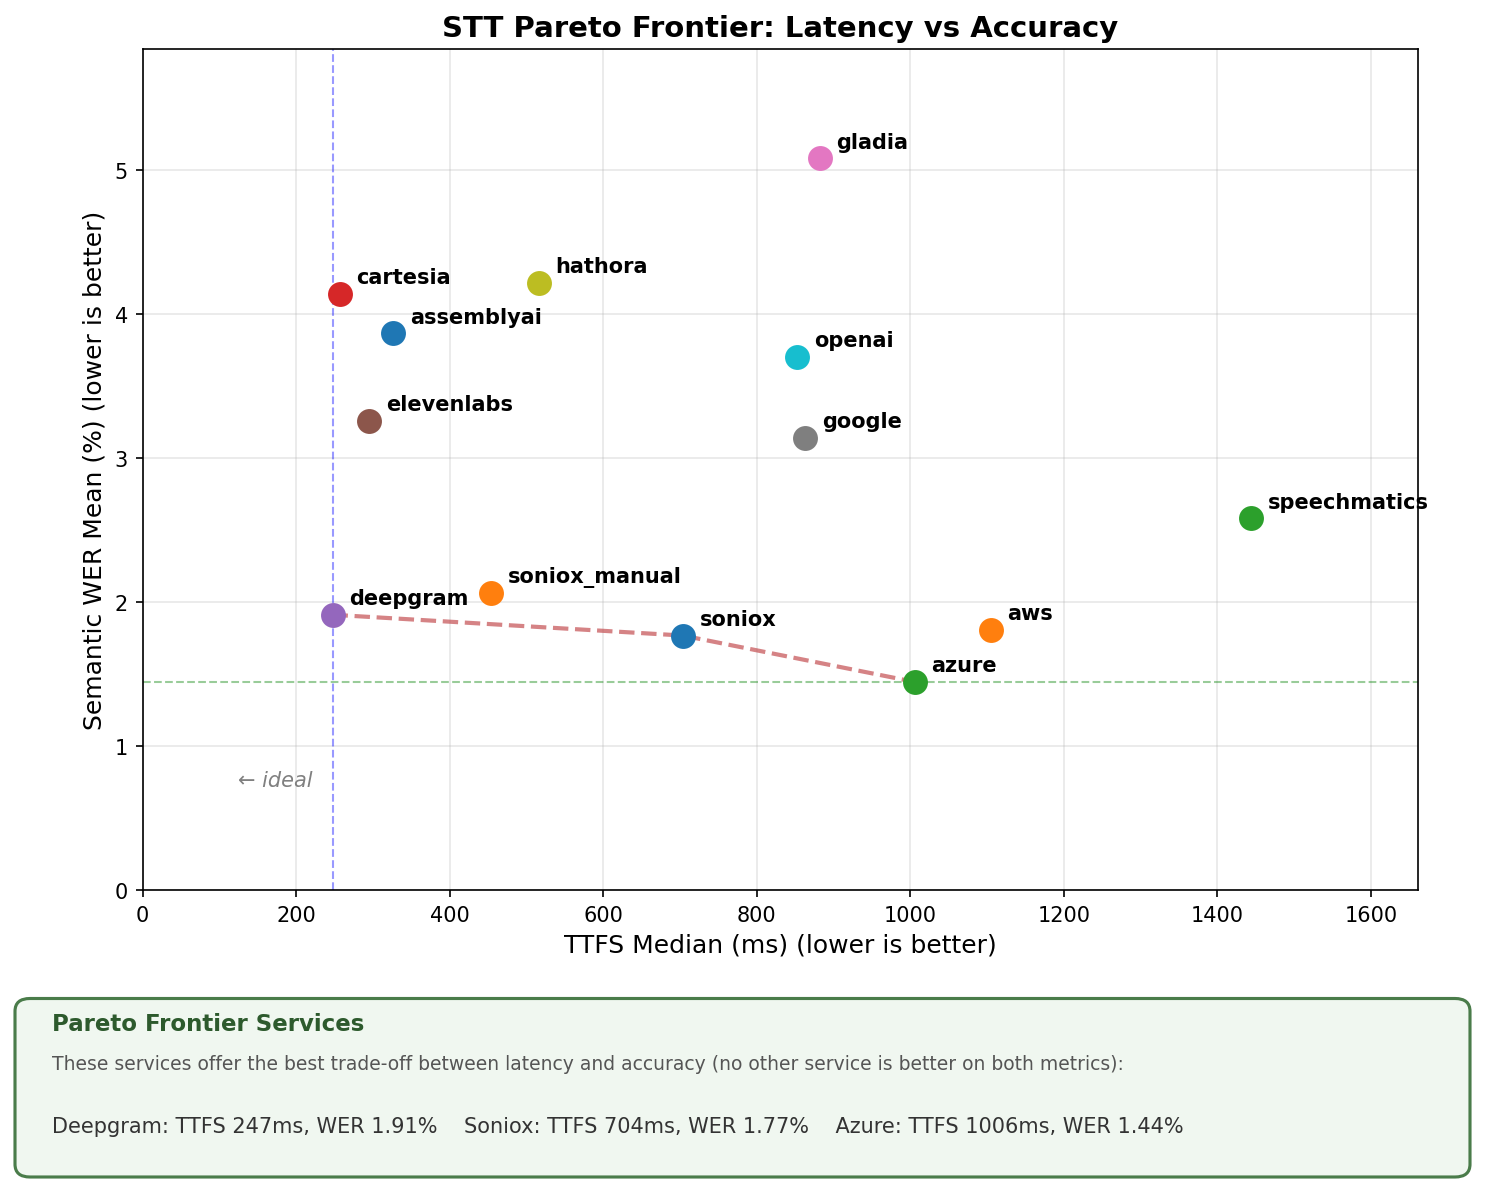
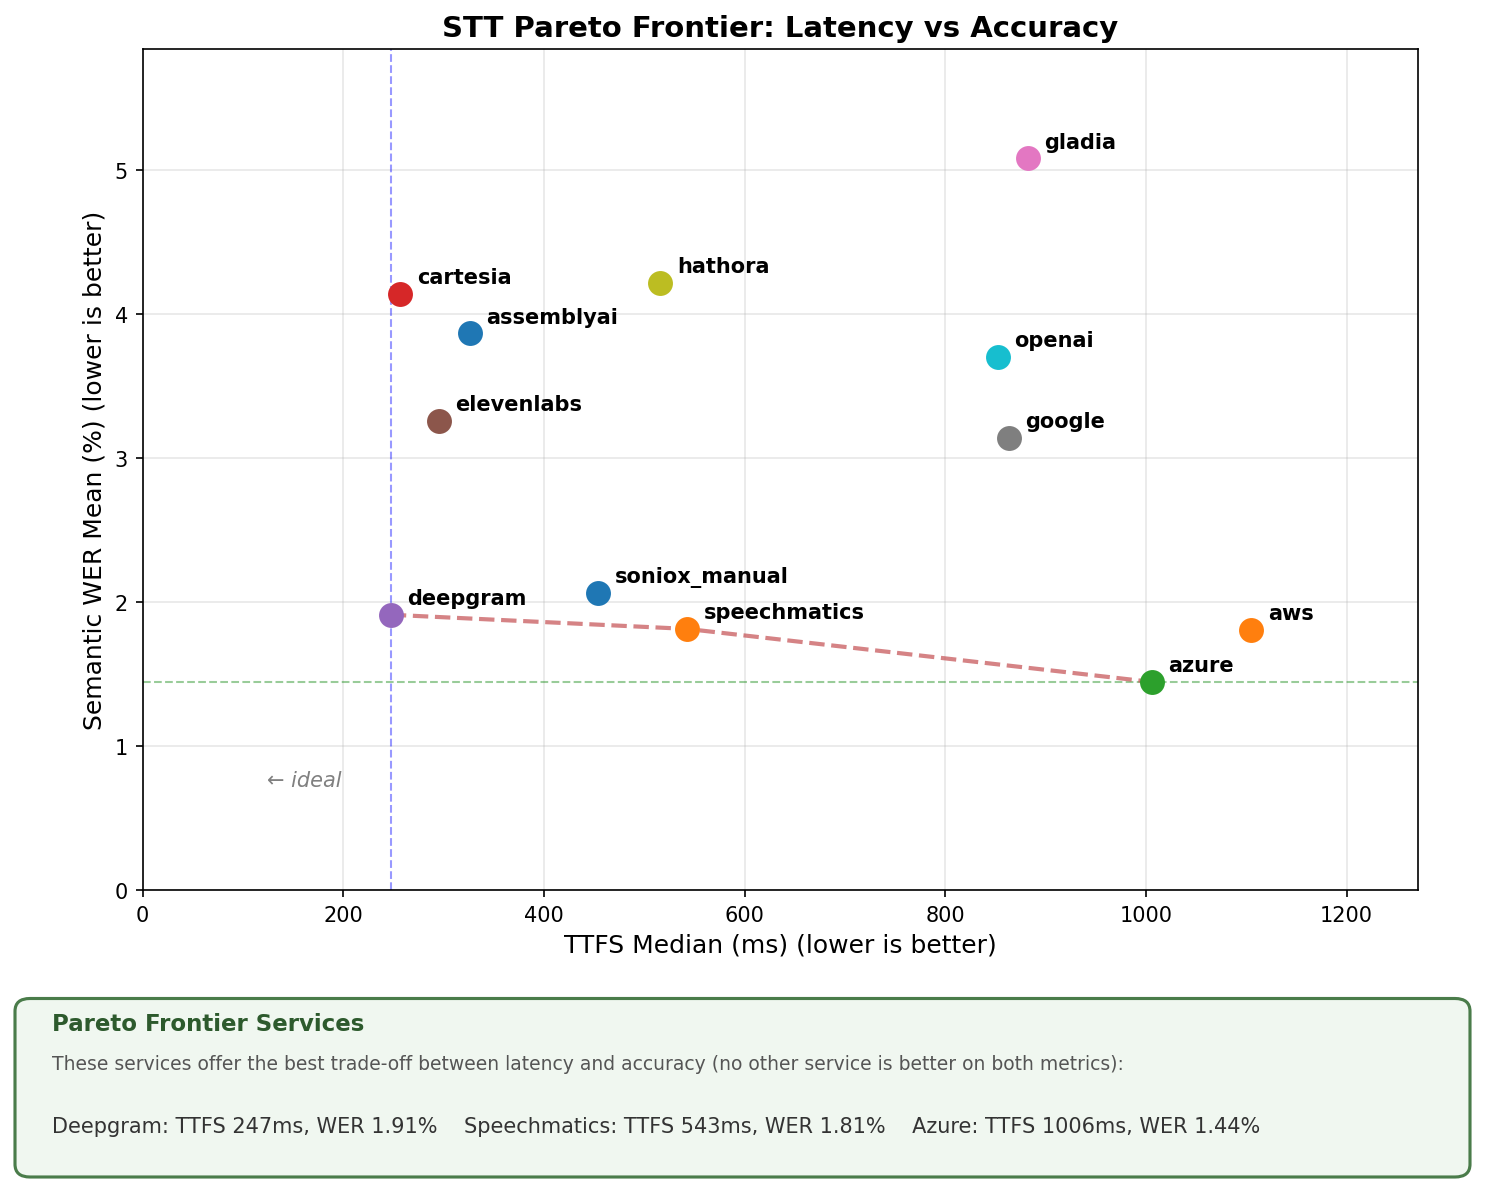
Update with latest results, env.example update

diff --git a/README.md b/README.md
@@ -19,7 +19,7 @@ Benchmark results on 1000 samples from the `pipecat-ai/smart-turn-data-v3.1-trai
 | hatora | 98.9% | 66.2% | 4.21% | 516ms | 715ms | 879ms |
 | openai | 100.0% | 74.8% | 3.70% | 852ms | 1413ms | 1806ms |
 | soniox | 100.0% | 78.8% | 2.06% | 454ms | 853ms | 1166ms |
-| speechmatics | 99.7% | 68.5% | 2.58% | 1444ms | 1939ms | 2055ms |
+| speechmatics | 99.9% | 80.8% | 1.81% | 543ms | 743ms | 813ms |
 
 ### Latency vs Accuracy Trade-off
 
